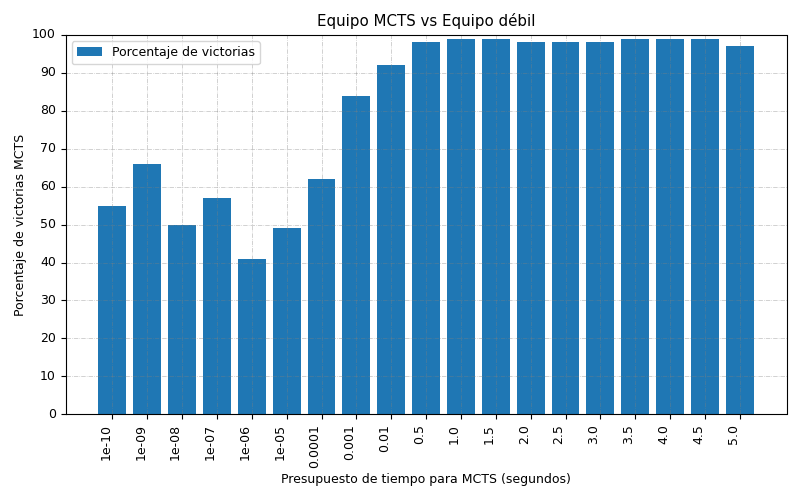
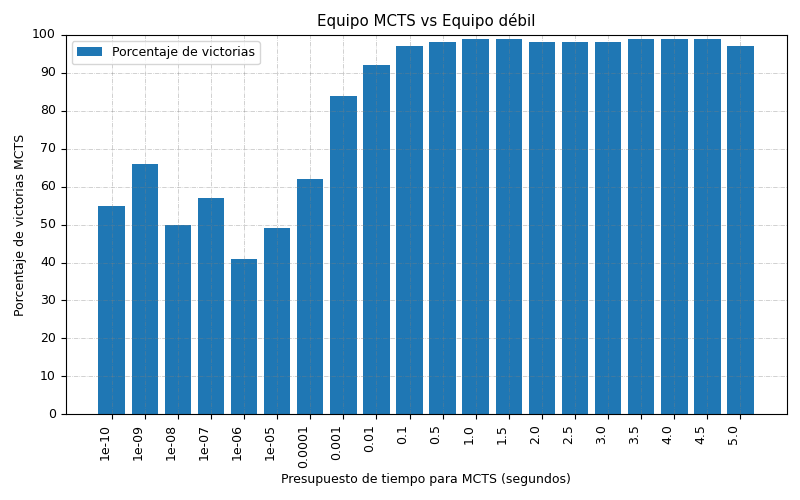
feat: mejor caracterizacion de resultados
Poner mas detalle en mcts vs greedy (rendimiento minimo) como numero de
jugadas, número de veces que alguien pasó, veces que se cerró el juego,
diferencia de puntos promedio ?

Changed region(s): [[0.125, 0.06, 0.9062, 0.93]]

diff --git a/src/Chapters/5.resultados.tex b/src/Chapters/5.resultados.tex
@@ -3,10 +3,14 @@
 \noindent
 En esta sección se muestran los resultados obtenidos después de la
 implementación. En primer lugar se realizaron un conjunto de pruebas para
-validar que el sistema tuviera las propiedades deseadas. Se validó que el último
-módulo, la búsqueda en árbol de información perfecta, calculara jugadas con buen
-desempeño. Asimismo, se muestra el desempeño del sistema y se contrasta con los
-requerimientos y restricciones planteadas al inicio del escrito.
+validar que el sistema tuviera un funcionamiento correcto. Se validó que el
+último módulo, la búsqueda en árbol de información perfecta, calculara jugadas
+con buen desempeño. En segundo lugar, se realizaron dos búsquedas en cuadrícula
+en el espacio de parámetros de PIMC. Así, fue posible identificar cómo varía el
+desempeño en función de los parámetros y elegir una combinación óptima de ellos.
+Por último, se muestra el desempeño del sistema con los parámetros seleccionados
+y se caracteriza con base en distintas estadísticas recolectadas de múltiples
+juegos simulados.
 
 \section{Validación de MCTS}
 
@@ -14,46 +18,188 @@ A lo largo del desarrollo, la metodología de  \textit{Test Driven Development}
 fue útil para ganar certidumbre sobre el correcto funcionamiento del programa.
 Aun así, contar con pruebas unitarias no asegura que las partes del sistema
 funcionen correctamente en conjunto. Después de integrar las reglas de dominó
-con MCTS, era necesario validar que el resultado de la búsqueda fuera una jugada
+con mctspy, era necesario validar que el resultado de la búsqueda fuera una jugada
 con buen desempeño.
 
 Para verificar que la integración con la biblioteca mctspy era correcta, se
 realizaron una serie de simulaciones entre un equipo de jugadores MCTS y un
 equipo de jugadores greedy. Cabe resaltar que los jugadores MCTS conocían todas
-las fichas, incluyendo las de sus contrincantes. Por otro lado, para los
-jugadores greedy es irrelevante conocer las fichas de sus contrincantes, ya que
-su jugada se calcula exclusivamente con la información de sus propias fichas.
+las fichas, incluyendo las de sus contrincantes, ya que con este experimento
+sólo se buscaba validar la búsqueda con información perfecta. Por otro lado,
+para los jugadores greedy es irrelevante conocer las fichas de sus
+contrincantes, ya que su jugada se calcula exclusivamente con la información de
+sus propias fichas.
 
 \begin{figure}[ht]
     \begin{center}
-        \hbox{\hspace{-1em} \includegraphics[scale=0.9]{mcts_greedy_abierto.png}}
-        \caption{MCTS v.s. Greedy. MCTS vence en más del 90\% de los juegos con 50 simulaciones de MCTS}
+        \hbox{\hspace{-2em}
+        \includegraphics[scale=0.65]{graficas_experimentos/mcts_is_correct.png}}
+        \caption{MCTS v.s. Greedy. MCTS vence en más del 90\% de los juegos con
+        una décima de segundo de presupuesto de tiempo. Para cada presupuesto de
+        tiempo se realizaron 100 juegos.}
         \label{MGA}
     \end{center}
 \end{figure}
 
 En la figura \ref{MGA} tenemos una gráfica del resultado de las simulaciones. En
-el eje horizontal se muestra el número de iteraciones que se le permitió
-ejecutar a MCTS para cada tiro. Se corrieron seis simulaciones con distintas
-configuraciones de MCTS de mil juegos cada una. Podemos observar que muy
-rápidamente se llega a superar al equipo greedy. Con menos de 20 iteraciones, la
-búsqueda en árbol logró vencer al jugador greedy en 80\% de los juegos.
+el eje horizontal se muestra el presupuesto de tiempo que se le permitió
+ejecutar a MCTS para cada tiro. Se corrieron múltiples simulaciones con
+distintas configuraciones de MCTS de cien juegos cada una. Podemos observar que
+muy rápidamente se llega a superar al equipo greedy. Con un presupuesto de una
+milésima de segundo, la búsqueda en árbol logró vencer al jugador greedy en 80\%
+de los juegos.
 
 El desempeño observado nos indica que MCTS está calculando buenas jugadas y que
 el módulo funciona correctamente.
 
 
+\section{Búsqueda en cuadrícula}
+
+Una vez que se ganó certeza sobre el correcto funcionamiento de la búsqueda en
+árbol, la siguiente interrogante a resolver fue la elección de parámetros. El
+algoritmo PIMC consta de dos parámetros a definir: el número de escenarios que
+se generarán (n) y el presupuesto de tiempo (t) para buscar una acción óptima en
+cada escenario usando MCTS.
+
+Como punto de partida, se agregó como restricción que el tiempo total de
+ejecución no debe exceder un segundo. Es decir, restringimos el espacio de
+búsqueda a aquellas parejas de parámetros que satisfacen: 
+
+
+\[nt = 1 \]
+
+La métrica objetivo que se busca maximizar con la elección de parámetros es el
+porcentaje de victorias de un equipo PIMC contra un equipo débil y un equipo
+fuerte. Para el equipo débil se utilizaron los jugadores \textit{greedy} antes
+descritos. Para el equipo fuerte se utilizó un jugador MCTS con conocimiento de
+todas las fichas repartidas. Se justifica la elección del jugador fuerte
+basándose en que un jugador humano experto tiene una gran habilidad para inferir
+las fichas de los demás participantes. Además, posee una gran compenetración con
+su compañero para poder cooperar armónicamente.
+
+\begin{figure}[ht]
+    \begin{center}
+        \hbox{\hspace{-2em}
+        \includegraphics[scale=0.65]{graficas_experimentos/grid_search_vs_greedy.png}}
+        \caption{Búsqueda en cuadrícula equipo PIMC vs equipo débil. Se muestran
+        concatenados dos rangos. El rango 1-500 tiene saltos de 25 unidades. El
+        rango 500 - 10,000 tiene saltos en 500 unidades. Para cada n, se eligió
+        t tal que \(nt = 1\). Para cada configuración se simularon 100 juegos.}
+        \label{GSW}
+    \end{center}
+\end{figure}
+
+En la figura \ref{GSW} se muestran los resultados de los juegos entre PIMC y
+greedy. Se puede observar que en el rango \( n \in  [25, 125] \) es donde PIMC
+tiene mejor desempeño. También se observa que en el rango  \( n \in  [1000,
+10000]\) el porcentaje de victorias disminuye y tiene mayor variabilidad
+conforme cambia n.
+
+\begin{figure}[ht]
+    \begin{center}
+        \hbox{\hspace{-2em}
+        \includegraphics[scale=0.65]{graficas_experimentos/grid_search_vs_strong.png}}
+        \caption{Búsqueda en cuadrícula equipo PIMC vs equipo fuerte. Se muestran
+        concatenados dos rangos. El rango 1-500 tiene saltos de 25 unidades. El
+        rango 500 - 10,000 tiene saltos en 500 unidades. Para cada n, se eligió
+        t tal que \(nt = 1\). Para cada configuración se simularon 100 juegos.}
+        \label{GSS}
+    \end{center}
+\end{figure}
+
+En la figura \ref{GSS} se pueden observar los resultados de la búsqueda al jugar
+contra un equipo fuerte. A diferencia de la figura \ref{GSW}, es menos clara una
+tendencia en los datos. El mejor desempeño se logró cuando PIMC sólo tomó en
+cuenta un escenario. Esta configuración de parámetros es un caso degenerado en
+donde PIMC se convierte en MCTS aplicado a un escenario aleatorio de repartición
+de fichas, por lo que se podría pensar que no es la elección más deseada de
+parámetros. Aun así, parece apreciarse que en el rango \( n \in  [1, 400] \) el
+desempeño del jugador es mejor que en el resto de las configuraciones.
+
 \section{Desempeño del sistema}
 
-El análisis anterior fue útil para encontrar una combinación de parámetros
-adecuada para satisfacer los requerimientos y las restricciones del problema. El
-sistema necesita que se definan dos parámetros. El número de iteraciones de
-búsqueda y el número de escenarios que se simulan. Ya que el desempeño de MCTS
-contra greedy no requería un gran número de iteraciones, se decidió correr
-veinte iteraciones de MCTS por cada escenario. Por otro lado, se eligió simular
-cien escenarios por tiro.
+El análisis anterior fue útil para elegir una combinación de parámetros . Se
+eligieron los valores \(n^* = 75 \) y \( t^* = \frac{1}{75}\), los cuales
+maximizaron el porcentaje de victorias en la figura \ref{GSW} y se encontraban
+en la región de mejor desempeño de la figura \ref{GSS}. 
 
-Se simularon mil juegos de dominó (donde cada jugador sólo conoce sus fichas)
-entre el equipo PIMC contra un equipo greedy. El sistema consiguió 74\% de
-victorias y el tiempo que tomó en cada tirada fue de 1.2 segundos corriendo en
-el servidor de Digital Ocean.
+\begin{table}[!ht]
+    \centering
+    \caption{Estadísticas de 100 juegos. Equipo PIMC vs equipo greedy}
+    \begin{tabular}{|l|l|}
+    \hline
+        Porcentaje de victorias PIMC & 88.0 \\ \hline
+        Porcentaje de victorias greedy & 10.0 \\ \hline
+        Porcentaje empates & 2.0 \\ \hline
+        Porcentaje victorias sin juego cerrado PIMC & 65.0 \\ \hline
+        Porcentaje victorias sin juego cerrado greedy & 6.0 \\ \hline
+        Promedio pases por juego PIMC & 1.63 \\ \hline
+        Promedio pases por juego greedy & 2.69 \\ \hline
+    \end{tabular}
+    \label{MINP}
+\end{table}
+
+Como se puede ver en la tabla \ref{MINP}, el sistema cumplió con el
+requerimiento de porcentaje de victorias contra el jugador \textit{greedy} al
+ganar en 88 \% de los juegos. En promedio, en cada juego hubo casi 3 turnos del
+equipo \textit{greedy} en que el jugador no tenía ninguna ficha para bajar, un
+turno más que el equipo PIMC . La estadística sugiere que el equipo PIMC estaba
+haciendo buenas jugadas que obligaron al equipo contrincante a pasar más
+seguido.
+
+En dominó, un juego se cierra cuando ningún equipo puede bajar más fichas. El
+ganador es el equipo cuyas fichas suman el menor número de puntos. En la tabla
+\ref{MINP} se muestra que en 65 \% de los juegos PIMC ganó sin juego cerrado, es
+decir, ganó por que uno de los miembros del equipo bajó todas sus fichas. Así,
+en 23 \% de los casos, PIMC ganó por tener menor número de puntos.
+
+
+Después de validar que un equipo de dos jugadores PIMC eran superiores a un
+equipo \textit{greedy}, se decidió investigar cómo variaba el desempeño para
+equipos mixtos.
+
+\begin{table}[!ht]
+    \centering
+    \caption{Estadísticas de 100 juegos. Equipo PIMC con jugador fuerte vs equipo greedy}
+    \begin{tabular}{|l|l|}
+    \hline
+        Porcentaje de victorias PIMC con jugador fuerte & 88.0 \\ \hline
+        Porcentaje de victorias greedy & 12.0 \\ \hline
+        Porcentaje empates & 0.0 \\ \hline
+        Porcentaje victorias sin juego cerrado PIMC con jugador fuerte & 67.0 \\ \hline
+        Porcentaje victorias sin juego cerrado greedy & 7.0 \\ \hline
+        Promedio pases por juego PIMC con jugador fuerte & 1.61 \\ \hline
+        Promedio pases por juego greedy & 2.74 \\ \hline
+    \end{tabular}
+    \label{MIXS}
+\end{table}
+
+En la tabla \ref{MIXS} se muestran las estadísticas de 100 juegos de un equipo
+mixto compuesto de un jugador PIMC y un jugador fuerte. Se observa que en
+general las estadísticas del equipo con jugador PIMC fueron similares al de la
+tabla \ref{MINP}. Así, el equipo mixto mostró mantener un buen desempeño contra
+el equipo \textit{greedy}.
+
+
+\begin{table}[!ht]
+    \centering
+    \caption{Estadísticas de 100 juegos. Equipo PIMC con jugador greedy vs equipo greedy}
+    \begin{tabular}{|l|l|}
+    \hline
+        Porcentaje de victorias PIMC con jugador greedy & 72.0 \\ \hline
+        Porcentaje de victorias greedy & 25.0 \\ \hline
+        Porcentaje empates & 3.0 \\ \hline
+        Porcentaje victorias sin juego cerrado PIMC con jugador greedy & 59.0 \\ \hline
+        Porcentaje victorias sin juego cerrado greedy & 11.0 \\ \hline
+        Promedio pases por juego PIMC con jugador greedy & 1.87 \\ \hline
+        Promedio pases por juego greedy & 2.81 \\ \hline
+    \end{tabular}
+    \label{MIXG}
+\end{table}
+
+En contraste, la tabla \ref{MIXG} muestra las estadísticas de un equipo
+compuesto de un jugador PIMC y un jugador \textit{greedy} contra un equipo
+\textit{greedy}. Aquí es visible una perdida en el desempeño, bajando más de 10
+puntos en el porcentaje de victorias. También el porcentaje de pases por juego
+aumentó ligeramente para el equipo mixto. Aun así, el equipo mixto superó el 70
+\% de victorias, como se buscaba en las restricciones del sistema.
